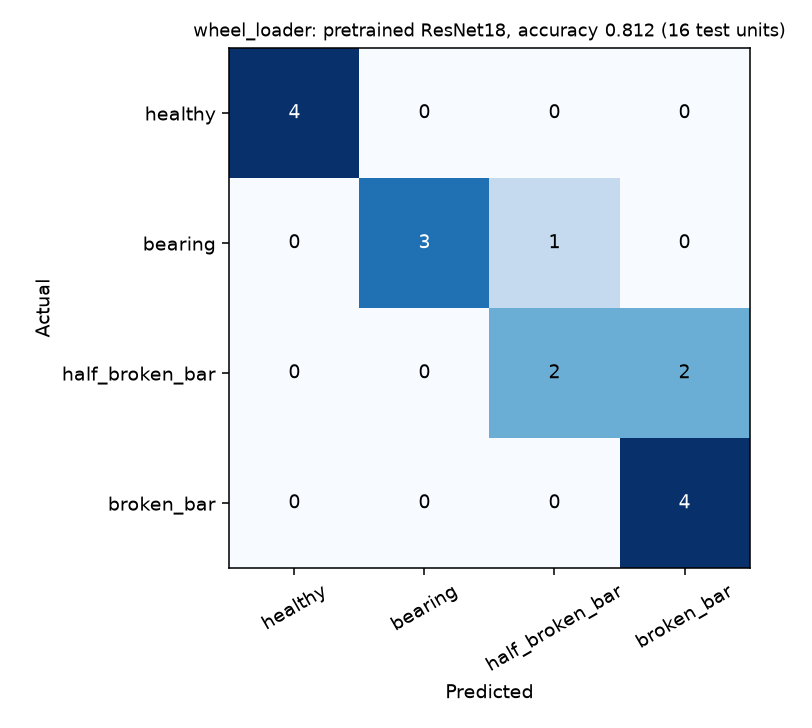
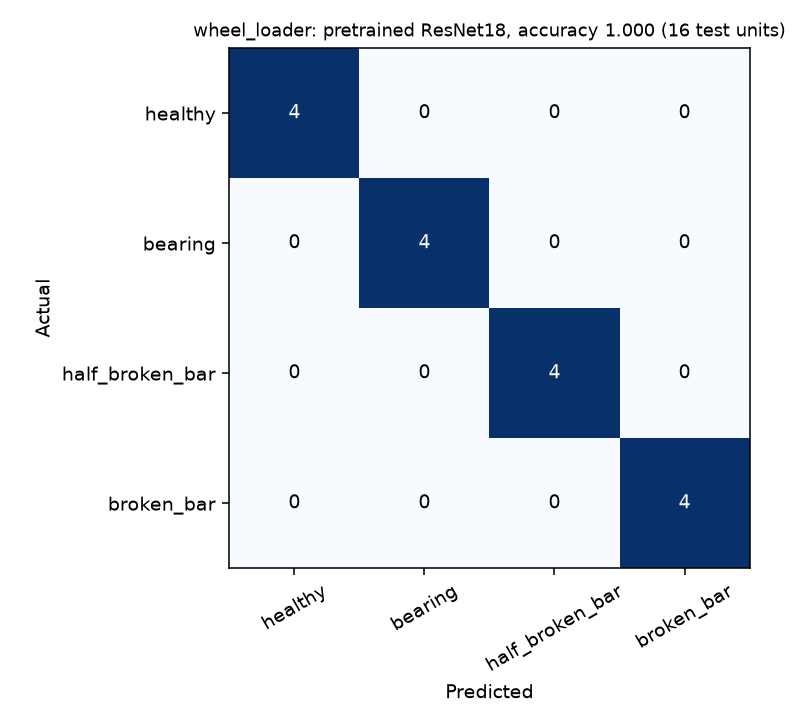
Use all Wheel Loader infrared frames
Retrain and record image-model results on the full frame set.

Changed region(s): [[0.431, 0.2418, 0.9236, 0.6044], [0.7389, 0.0302, 0.8005, 0.0604]]

diff --git a/Models/wheel_loader.py b/Models/wheel_loader.py
@@ -197,8 +197,6 @@ def export_images(run: bool = True) -> dict:
                 frames = loadmat(ROOT / "Raw_Data" / folder / f"{unit}.mat",
                                  variable_names=["imagenes_celda"])["imagenes_celda"]
                 for k, frame in enumerate(frames.flat):
-                    if k % 3:
-                        continue  # every 3rd frame: 150 images per run
                     gray = cv2.cvtColor(cv2.resize(np.asarray(frame), (WIDTH, HEIGHT)), cv2.COLOR_RGB2GRAY)
                     write(rows, label, unit, speed, f"{MACHINE}_{label}_{speed}_f{k:03d}.png", gray)
                 print(f"{unit}: done", flush=True)
@@ -207,6 +205,17 @@ def export_images(run: bool = True) -> dict:
     def main():
         parser = argparse.ArgumentParser(description=export_images.__doc__)
         parser.parse_args()
+        labels = {"H": "healthy", "BD": "bearing", "HB": "half_broken_bar", "OB": "broken_bar"}
+        missing = []
+        for condition in labels:
+            folder = "cora_gear_wear" if condition == "H" else "cora_drive_faults"
+            for speed in ("F5", "F15", "F50", "F60"):
+                source = ROOT / "Raw_Data" / folder / f"{condition}_{speed}_S.mat"
+                if not source.is_file():
+                    missing.append(source)
+        if missing:
+            paths = ", ".join(str(path.relative_to(ROOT)) for path in missing)
+            raise SystemExit(f"Missing infrared source files; no images were replaced: {paths}")
         if OUT.exists():
             shutil.rmtree(OUT)
         rows = export()

diff --git a/Documentation/week_07_wheel_loader.md b/Documentation/week_07_wheel_loader.md
@@ -14,11 +14,11 @@ stands in for the loader's drive motor. Lab data, not a wheel loader.
 
 | | Sensor | Camera |
 |---|---|---|
-| Data | CORA Vx vibration (3 kHz, 1 s windows, shaft-order features) | CORA infrared, every 3rd of 450 frames |
+| Data | CORA Vx vibration (3 kHz, 1 s windows, shaft-order features) | CORA infrared, all 450 frames per run |
 | Classes | healthy, bearing defect, half-broken rotor bar, broken rotor bar (4 runs each) | same |
-| New data | 16 files (HB/OB vibration and infrared, about 1.06 GB), downloaded in a browser, all MD5-checked | |
+| New image data | 8 HB/OB infrared stacks, downloaded and MD5-verified | |
 | Shared data | healthy and bearing-defect runs are the same files as the Excavator's | |
-| Images | — | 2,400 named images (`wheel_loader_<class>_<speed>_fNNN.png`), 600 per class |
+| Images | — | 7,200 named images (`wheel_loader_<class>_<speed>_fNNN.png`), 1,800 per class |
 | Main test | one whole speed held out per round (4 runs, one per class), 4 rounds, 16 run-level predictions | same |
 | Code | `python Models/wheel_loader.py csv` | `python Models/wheel_loader.py cnn-pretrained` |
 
@@ -27,22 +27,27 @@ normalisation**: preprocessing never looks at the held-out speed's runs.
 
 ## Results (accuracy, 4 classes; guessing = 0.250)
 
+All 16 infrared stacks were downloaded and verified against the publisher's file sizes and MD5 checksums. The exporter now saves all 450 frames per run and the ResNet18 was retrained on all 7,200 images. The older saved result below has been replaced.
+
+The eight HB/OB vibration CSVs are currently missing locally; the sensor scores in the table are saved results and were not retrained in this run.
+
 | Model | Main test (unseen speed) | Time split |
 |---|---:|---:|
 | Sensor: validation-selected model | 0.312 | — |
 | Sensor: random forest | 0.250 | 0.938 |
 | Sensor: XGBoost / LightGBM | 0.250 / 0.250 | 0.875 / 0.938 |
-| Camera: pretrained ResNet18 | 0.312 | 0.812 |
+| Camera: pretrained ResNet18 (7,200 images) | 0.188 | 1.000 |
 | Anomaly: Isolation Forest (ROC-AUC) | 0.40 | 0.90 |
 
 ## What it means
 
-- **At an unseen speed both branches are at chance** (5 of 16 runs). This is the same CORA limit as the
-  Excavator: one run per fault per speed, so the model cannot learn what a rotor-bar fault looks like at a
-  speed it has never heard.
-- **Within the same recordings (time split)** the sensor model recognises 15 of 16 runs (all rotor-bar
-  runs correct) and the camera 13 of 16, so the faults leave a signal; part of this score may come from
-  recognising the recording.
+- **At an unseen speed the camera gets 3 of 16 recordings (0.188), below the 0.250 four-class chance
+  baseline**; recall is zero for broken-bar faults. The previous 2,400-image run scored 5 of 16, so
+  adding adjacent frames did not improve generalization. There is still only one recording per class
+  and speed; images from one recording are correlated, not independent examples.
+- **The secondary time split gets 16 of 16 recordings (1.000) and 0.911 image-level accuracy**, but
+  train and test frames come from the same recordings. This is not evidence of generalization to a new
+  recording or speed and may reflect recording-specific patterns.
 - Broken rotor bars are classically detected in **motor current** (sidebands around the supply frequency),
   which this experiment does not use; CORA's current files (about 150 MB per run) are a possible next step.
 - Small test set: one run changes accuracy by 6 points. Not above the methodology's 80% gate.

diff --git a/README.md b/README.md
@@ -29,9 +29,9 @@ For each machine we detect the **current fault condition of one component** two 
 
 | Machine (component) | Classes | Sensor | Images (CNN) | Sensor, time split | Images, time split |
 |---|---|---:|---:|---:|---:|
-| **Wheel Loader** (electric drive motor) | healthy, bearing, half-broken bar, broken bar | 0.312 | 0.312 | 0.938 | 0.812 |
+| **Wheel Loader** (electric drive motor) | healthy, bearing, half-broken bar, broken bar | 0.312 | 0.188 (7,200 images) | 0.938 | 1.000* |
 
-Both branches are at chance (0.250) on the unseen-speed test, as for the Excavator.
+The Wheel Loader camera result is below the 0.250 chance baseline on the unseen-speed test (3/16 recordings). Its 1.000 time-split score is secondary: train and test frames come from the same recordings. Expanding the training set from 2,400 to 7,200 adjacent frames did not improve unseen-speed performance (the prior run scored 0.312); these frames do not add independent recordings. \*The updated time-split result is 16/16 recordings, but is not evidence of new-recording generalization.
 
 ## Quick start
 
